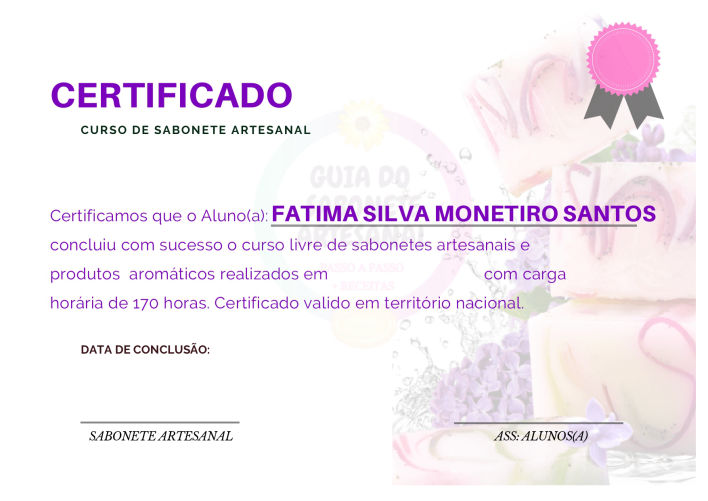
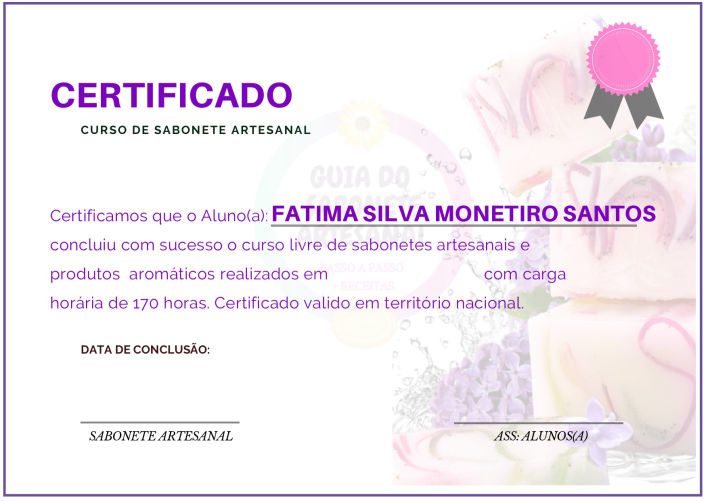
create github pages

Changed region(s): [[0.0, 0.0, 0.9944, 1.0]]

diff --git a/page4.html b/page4.html
@@ -72,7 +72,7 @@
     </nav>
 </section>
 
-<section class="engine"><a href="https://mobirise.info/w">free html5 templates</a></section><section class="cid-rNRdEfaSp4" id="image3-3h">
+<section class="engine"><a href="https://mobirise.info/o">portfolio website templates</a></section><section class="cid-rNRdEfaSp4" id="image3-3h">
 
     
 
@@ -113,6 +113,17 @@
             <hr class="line" style="width: 27%;">
         </div>
         </div>
+</section>
+
+<section class="cid-rSsQxyDCzO" id="video3-6s">
+
+    
+    
+    <figure class="mbr-figure align-center container">
+        <div class="video-block" style="width: 80%;">
+            <div><iframe class="mbr-embedded-video" src="https://www.youtube.com/embed/SFptdSxqG3g?rel=0&amp;amp;showinfo=0&amp;autoplay=1&amp;loop=0" width="1280" height="720" frameborder="0" allowfullscreen></iframe></div>
+        </div>
+    </figure>
 </section>
 
 <section class="cid-rNRdEhOJGn" id="image3-3k">
@@ -441,7 +452,7 @@ Video como Fazer Sabonete de Camomila<br>✔ Video como fazer sabonete aromatico
             <div class="col-12 col-md-8">
                 <div class="media-container-row">
                     <div class="mbr-figure" style="width: 130%;">
-                      <img src="assets/images/certificadoproibido-708x547.png" alt="Mobirise" title="">  
+                      <img src="assets/images/certificado-para-site-708x501.jpg" alt="Mobirise" title="">  
                     </div>
                     <div class="media-content">
                         <div class="mbr-section-text">
@@ -731,7 +742,7 @@ Video como Fazer Sabonete de Camomila<br>✔ Video como fazer sabonete aromatico
         <div class="hoursCountdown" title="Horas"></div> 
         <div class="minutesCountdown" title="Minutos"></div> 
         <div class="secondsCountdown" title="Segundos"></div>
-        <div class="countdown pt-5 mt-2" data-due-date="2020/01/30"> 
+        <div class="countdown pt-5 mt-2" data-due-date="2020/03/15"> 
         </div>
     </div>
 </section>
@@ -804,7 +815,7 @@ Video como Fazer Sabonete de Camomila<br>✔ Video como fazer sabonete aromatico
         <div class="hoursCountdown" title="Horas"></div> 
         <div class="minutesCountdown" title="Minutos"></div> 
         <div class="secondsCountdown" title="Segundos"></div>
-        <div class="countdown pt-5 mt-2" data-due-date="2020/01/30"> 
+        <div class="countdown pt-5 mt-2" data-due-date="2020/03/15"> 
         </div>
     </div>
 </section>

diff --git a/assets/mobirise/css/mbr-additional.css b/assets/mobirise/css/mbr-additional.css
@@ -2648,6 +2648,20 @@ section.lazy-placeholder:after {
     width: 100% !important;
   }
 }
+.cid-rSsQxyDCzO {
+  background: #ffffff;
+  padding-top: 60px;
+  padding-bottom: 60px;
+  background: linear-gradient(0deg, #ffffff, #ffffff);
+}
+.cid-rSsQxyDCzO .video-block {
+  margin: auto;
+}
+@media (max-width: 768px) {
+  .cid-rSsQxyDCzO .video-block {
+    width: 100% !important;
+  }
+}
 .cid-rNRdEhOJGn {
   background: #ffffff;
   padding-top: 30px;

diff --git a/page1.html b/page1.html
@@ -50,7 +50,7 @@
     </div>
 </section>
 
-<section class="engine"><a href="https://mobirise.info/l">free web templates</a></section><section class="mbr-section article content9 cid-rKLfe8CObU" id="content9-2e">
+<section class="engine"><a href="https://mobirise.info/f">simple web builder</a></section><section class="mbr-section article content9 cid-rKLfe8CObU" id="content9-2e">
     
      
 

diff --git a/page5.html b/page5.html
@@ -72,7 +72,7 @@
     </nav>
 </section>
 
-<section class="engine"><a href="https://mobirise.info/e">how to make your own site for free</a></section><section class="mbr-section content5 cid-rNRwUFcgTP" id="content5-4a">
+<section class="engine"><a href="https://mobirise.info/m">web design templates</a></section><section class="mbr-section content5 cid-rNRwUFcgTP" id="content5-4a">
 
     
 

diff --git a/page3.html b/page3.html
@@ -47,7 +47,7 @@
     </figure>
 </section>
 
-<section class="engine"><a href="https://mobirise.info/k">develop own website</a></section><section class="mbr-section content4 cid-rKLjNrd2SC" id="content4-2j">
+<section class="engine"><a href="https://mobirise.info/h">create your own web page</a></section><section class="mbr-section content4 cid-rKLjNrd2SC" id="content4-2j">
 
     
 

diff --git a/page2.html b/page2.html
@@ -47,7 +47,7 @@
     </figure>
 </section>
 
-<section class="engine"><a href="https://mobirise.info/s">free bootstrap theme</a></section><section class="mbr-section content4 cid-rKLisfbhHN" id="content4-2g">
+<section class="engine"><a href="https://mobirise.info/j">website templates</a></section><section class="mbr-section content4 cid-rKLisfbhHN" id="content4-2g">
 
     
 

diff --git a/index.html b/index.html
@@ -71,7 +71,7 @@
     </nav>
 </section>
 
-<section class="engine"><a href="https://mobirise.info/m">site design templates</a></section><section class="mbr-section content5 cid-rHyJKegKZZ" id="content5-1">
+<section class="engine"><a href="https://mobirise.info/z">best css templates</a></section><section class="mbr-section content5 cid-rHyJKegKZZ" id="content5-1">
 
     
 

diff --git a/page7.html b/page7.html
@@ -72,7 +72,7 @@
     </nav>
 </section>
 
-<section class="engine"><a href="https://mobirise.info/v">html templates</a></section><section class="mbr-section content5 cid-rPttyrmcwv" id="content5-5l">
+<section class="engine"><a href="https://mobirise.info/e">make a website</a></section><section class="mbr-section content5 cid-rPttyrmcwv" id="content5-5l">
 
     
 

diff --git a/page6.html b/page6.html
@@ -69,7 +69,7 @@
     </nav>
 </section>
 
-<section class="engine"><a href="https://mobirise.info/f">easy website builder</a></section><section class="cid-rNRD689xDk" id="image3-51">
+<section class="engine"><a href="https://mobirise.info/t">amp templates</a></section><section class="cid-rNRD689xDk" id="image3-51">
 
     
 
